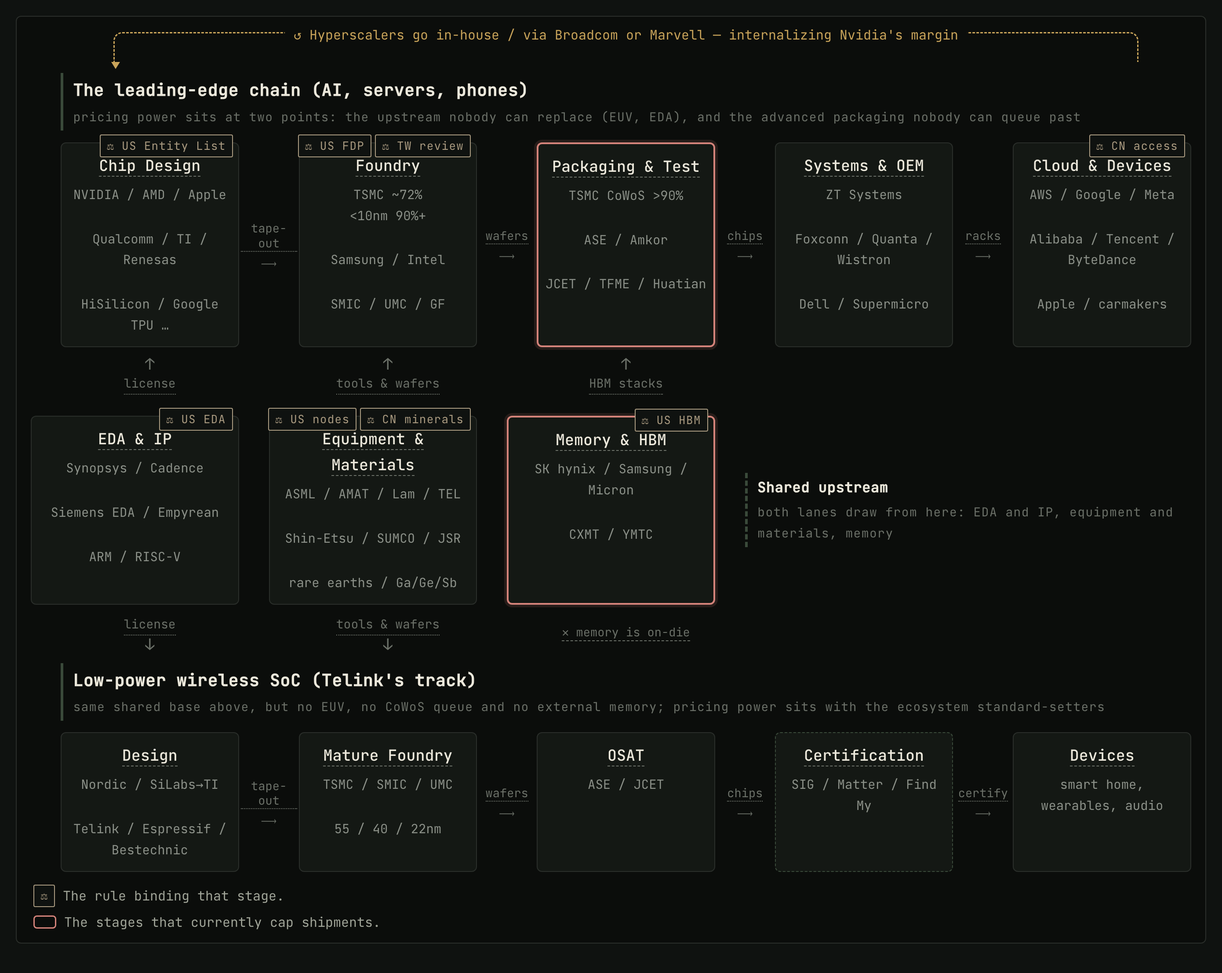
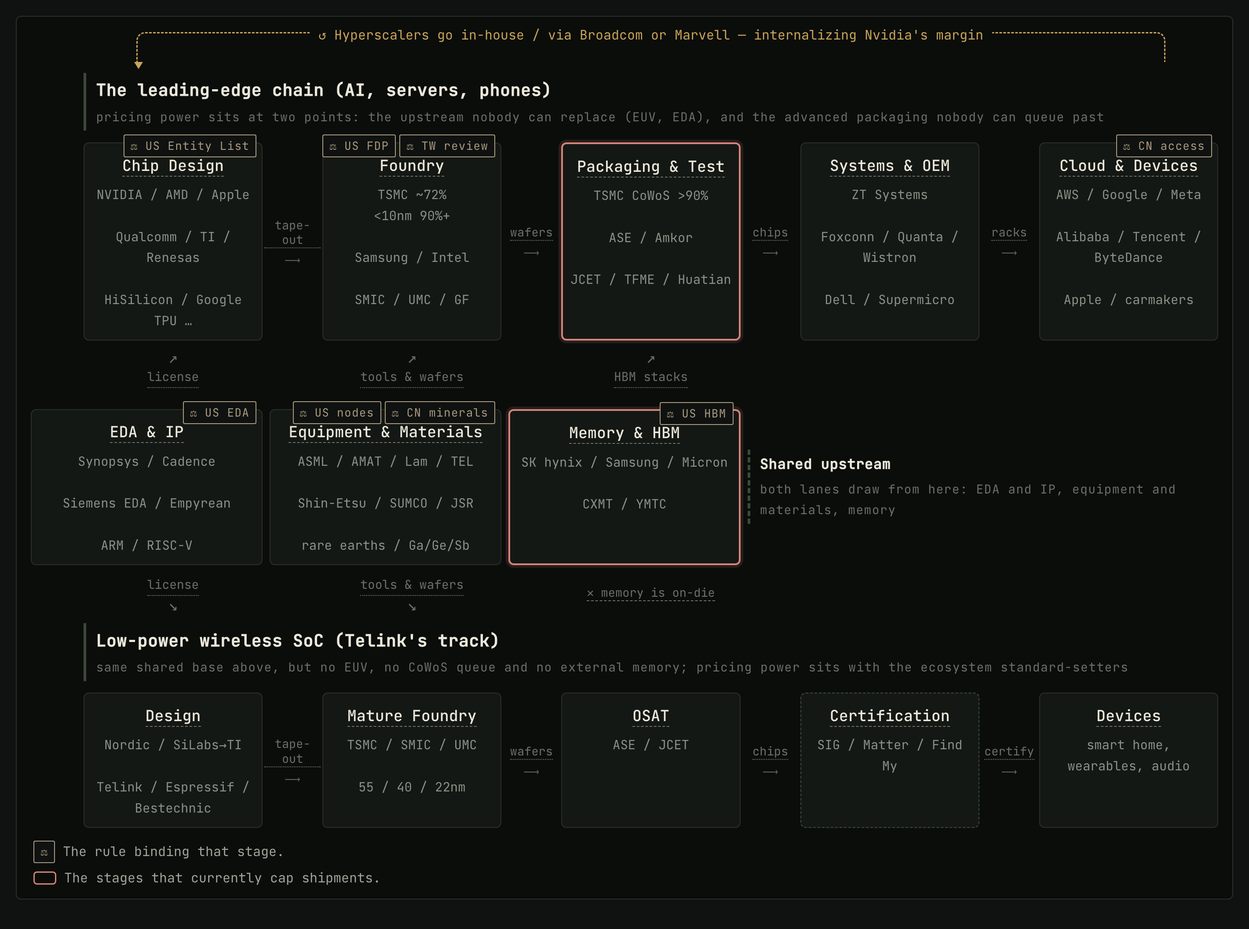
semis: tighter lines in the tiles, a wider offset, diagonal feeds
The line spacing came in with the figure: .fpl makes each player line a
block, and it also carried margin-bottom on top of a 1.65 line-height,
so every list in every tile was spaced twice. The margin goes.

The shared band moves from 34px to 60px left of the rows it feeds, and
the connectors between them become ↗ and ↘ — the band sits to the left,
so the feed into either lane is diagonal, and drawing it vertical said
otherwise.

The ✕ note loses its first sentence in both languages. The mark says the
memory stage is absent and the note explains why; "并非遗漏" / "the
missing memory stage is deliberate" was the note arguing with a reader
who had not objected yet. It now opens on the substance, and stops
repeating its own label.

diff --git a/quartz/static/semis/value-chain-map.html b/quartz/static/semis/value-chain-map.html
@@ -251,7 +251,7 @@ h1.article-title{font-size:30px}
   .fig{width:min(1320px, calc(100vw - 48px));
     margin-left:calc((100% - min(1320px, 100vw - 48px)) / 2)}
 .fig{overflow:visible}}
-.fgrid{display:grid;min-width:1060px;padding-left:34px;
+.fgrid{display:grid;min-width:1060px;padding-left:60px;
   grid-template-columns:1fr 68px 1fr 68px 1fr 68px 1fr 68px 1fr;
   gap:10px 0;align-items:stretch}
 .flane{font-size:14px;color:var(--color-text-faint);letter-spacing:.05em;
@@ -364,7 +364,7 @@ h1.article-title{font-size:30px}
 .fig .sr,.fig .ft,.fig .fsub,.fig .fcon,.chip-n{word-break:keep-all}
 
 /* ── from the redesigned figure: the upstream band feeding up ── */
-.fbox .fpl{display:block;margin-bottom:.16rem}
+.fbox .fpl{display:block}
 .fvert.up{padding-bottom:14px}
 .fnote{display:flex;align-items:center;justify-content:center;text-align:center;
   font-size:13.5px;line-height:1.3;color:var(--color-text-faint);padding:2px;min-height:40px}
@@ -372,8 +372,8 @@ h1.article-title{font-size:30px}
 
 /* the shared band is a layer feeding the chain, not a step in it: offset it so
    its cells deliberately fail to line up with the rows above and below */
-.fbox.mid{margin-left:-34px}
-.flane.bandlane{border-left-style:dashed;align-self:center;margin-left:-34px}
+.fbox.mid{margin-left:-60px}
+.flane.bandlane{border-left-style:dashed;align-self:center;margin-left:-60px}
 .flane.bandlane .ln{font-size:16px}
 </style></head><body><article>
 <h1 class="article-title">半导体产业链全图 — Semiconductor Value Chain: The Full Map</h1>
@@ -396,15 +396,15 @@ h1.article-title{font-size:30px}
 <div class="fbox" style="grid-row:3;grid-column:7"><span class="ft"><span class="tg-tip " tabindex="0"><span class="tg-lang zh">系统与整机</span><span class="tg-lang en">Systems & OEM</span><span class="tg-tip-box"><span class="tg-lang zh"><b>系统与整机</b>。把芯片装成服务器和整机架。AI 时代「能交付一整套能跑的系统」本身就是定价权——AMD 花 49 亿美元买 ZT Systems，买的就是这件事。</span><span class="tg-lang en"><b>Systems & racks.</b> In the AI era, the ability to deliver a complete working system is itself pricing power — that is what AMD's $4.9bn for ZT Systems bought.</span></span></span></span><span class="fp"><span class="fpl"><span class="sr sr-us">ZT Systems</span></span><br><span class="fpl"><span class="sr sr-tw"><span class="tg-lang zh">鸿海</span><span class="tg-lang en">Foxconn</span></span> / <span class="sr sr-tw"><span class="tg-lang zh">广达</span><span class="tg-lang en">Quanta</span></span> / <span class="sr sr-tw"><span class="tg-lang zh">纬创</span><span class="tg-lang en">Wistron</span></span></span><br><span class="fpl"><span class="sr sr-us">Dell</span> / <span class="sr sr-us">Supermicro</span></span></span></div>
 <div class="fcon" style="grid-row:3;grid-column:8"><span class="tg-tip " tabindex="0"><span class="tg-lang zh">整机架</span><span class="tg-lang en">racks</span><span class="tg-tip-box"><span class="tg-lang zh">AI 的交付单位已经从「一张卡」变成「一个整机架」——定价权也跟着从单颗芯片挪到了整机交付能力。</span><span class="tg-lang en">The AI unit of delivery has shifted from a card to a full rack, and pricing power moved with it, from the chip to the ability to deliver the whole system.</span></span></span><span class="ar">⟶</span></div>
 <div class="fbox" style="grid-row:3;grid-column:9"><span class="ftag"><span class="fpill tg-tip" tabindex="0">⚖ <span class="tg-lang zh">中国准入</span><span class="tg-lang en">CN access</span><span class="tg-tip-box"><span class="tg-lang zh"><b>中国的杠杆是「让不让本国公司买」。</b>2025 年 9 月网信办禁止主要科技公司采购英伟达 AI 芯片；2026 年 8 月字节和腾讯各获约 1 万颗 H200，约为获批量的 13%，其余需发改委逐案批准，且北京在把部署往香港引导。</span><span class="tg-lang en"><b>China's lever is whether its own firms may buy.</b> In September 2025 the CAC barred major tech firms from Nvidia AI chips; in August 2026 ByteDance and Tencent each received ~10,000 H200s, about 13% of the authorised volume, with the rest pending case-by-case NDRC approval.</span></span></span></span><span class="ft"><span class="tg-tip tipR " tabindex="0"><span class="tg-lang zh">云与终端</span><span class="tg-lang en">Cloud & Devices</span><span class="tg-tip-box"><span class="tg-lang zh"><b>云与终端</b>。最终买单的人。本轮增长由少数超大规模厂商的资本开支驱动，而不是手机/PC 的单位出货——周期风险的性质因此完全变了。</span><span class="tg-lang en"><b>Cloud & end buyers.</b> This cycle is driven by a few hyperscalers' capex, not phone/PC units — which changes the very nature of cyclical risk.</span></span></span></span><span class="fp"><span class="fpl"><span class="sr sr-us">AWS</span> / <span class="sr sr-us">Google</span> / <span class="sr sr-us">Meta</span></span><br><span class="fpl"><span class="sr sr-cn"><span class="tg-lang zh">阿里</span><span class="tg-lang en">Alibaba</span></span> / <span class="sr sr-cn"><span class="tg-lang zh">腾讯</span><span class="tg-lang en">Tencent</span></span> / <span class="sr sr-cn"><span class="tg-lang zh">字节</span><span class="tg-lang en">ByteDance</span></span></span><br><span class="fpl"><span class="sr sr-us">Apple</span> / <span class="sr sr-gl"><span class="tg-lang zh">车厂</span><span class="tg-lang en">carmakers</span></span></span></span></div>
-<div class="fvert up midv" style="grid-row:4;grid-column:1"><span class="ar">↑</span><span class="tg-tip " tabindex="0"><span class="tg-lang zh">授权</span><span class="tg-lang en">license</span><span class="tg-tip-box"><span class="tg-lang zh">EDA 工具按席位收费；IP 按「授权费 + 每颗版税」收。ARM 的商业模式就在这一条箭头上。</span><span class="tg-lang en">EDA tools are sold per seat; IP as licence fee plus per-chip royalty. ARM's entire business model lives on this one arrow.</span></span></span></div>
-<div class="fvert up midv" style="grid-row:4;grid-column:3"><span class="ar">↑</span><span class="tg-tip " tabindex="0"><span class="tg-lang zh">设备与硅片</span><span class="tg-lang en">tools & wafers</span><span class="tg-tip-box"><span class="tg-lang zh">光刻机、刻蚀机、硅片、光刻胶从这里进厂。断供这一条竖线，工厂两年后就造不了下一代。</span><span class="tg-lang en">Scanners, etchers, wafers and resists enter the fab here. Cut this vertical and in two years the fab cannot build the next node.</span></span></span></div>
-<div class="fvert up midv" style="grid-row:4;grid-column:5"><span class="ar">↑</span><span class="tg-tip " tabindex="0"><span class="tg-lang zh">HBM 堆栈</span><span class="tg-lang en">HBM stacks</span><span class="tg-tip-box"><span class="tg-lang zh">HBM 是在<b>封装环节</b>才和逻辑裸片合体的——这正是 CoWoS 成为整条链瓶颈的原因。</span><span class="tg-lang en">HBM only meets the logic die <b>at packaging</b> — which is exactly why CoWoS is the chain's bottleneck.</span></span></span></div>
+<div class="fvert up midv" style="grid-row:4;grid-column:1"><span class="ar">↗</span><span class="tg-tip " tabindex="0"><span class="tg-lang zh">授权</span><span class="tg-lang en">license</span><span class="tg-tip-box"><span class="tg-lang zh">EDA 工具按席位收费；IP 按「授权费 + 每颗版税」收。ARM 的商业模式就在这一条箭头上。</span><span class="tg-lang en">EDA tools are sold per seat; IP as licence fee plus per-chip royalty. ARM's entire business model lives on this one arrow.</span></span></span></div>
+<div class="fvert up midv" style="grid-row:4;grid-column:3"><span class="ar">↗</span><span class="tg-tip " tabindex="0"><span class="tg-lang zh">设备与硅片</span><span class="tg-lang en">tools & wafers</span><span class="tg-tip-box"><span class="tg-lang zh">光刻机、刻蚀机、硅片、光刻胶从这里进厂。断供这一条竖线，工厂两年后就造不了下一代。</span><span class="tg-lang en">Scanners, etchers, wafers and resists enter the fab here. Cut this vertical and in two years the fab cannot build the next node.</span></span></span></div>
+<div class="fvert up midv" style="grid-row:4;grid-column:5"><span class="ar">↗</span><span class="tg-tip " tabindex="0"><span class="tg-lang zh">HBM 堆栈</span><span class="tg-lang en">HBM stacks</span><span class="tg-tip-box"><span class="tg-lang zh">HBM 是在<b>封装环节</b>才和逻辑裸片合体的——这正是 CoWoS 成为整条链瓶颈的原因。</span><span class="tg-lang en">HBM only meets the logic die <b>at packaging</b> — which is exactly why CoWoS is the chain's bottleneck.</span></span></span></div>
 <div class="flane bandlane" style="grid-row:5;grid-column:7/-1"><span class="tg-lang zh"><span class="ln">共用上游</span>两条线都从这里取：EDA 与 IP、设备与材料、存储</span><span class="tg-lang en"><span class="ln">Shared upstream</span>both lanes draw from here: EDA and IP, equipment and materials, memory</span></div><div class="fbox mid" style="grid-row:5;grid-column:1"><span class="ftag"><span class="fpill tg-tip" tabindex="0">⚖ <span class="tg-lang zh">美国 EDA</span><span class="tg-lang en">US EDA</span><span class="tg-tip-box"><span class="tg-lang zh">同属一套<b>美国出口管制体系（EAR，商务部 BIS 执行）</b>——五件工具各咬一层，这件管的是「软件能不能给你用」。<br><br><b>EAR 对 EDA 工具与 IP 的管制。</b>断供这一层不需要碰任何硬件，因此是 2022 年管制里最先被动用的杠杆。三家 EDA 寡头里两家在美国，第三家（Siemens EDA）技术根也在美国，同样受约束。</span><span class="tg-lang en">One instrument of the <b>same US export-control system (the EAR, run by BIS)</b> — five tools each bite one layer, and this one governs whether you may use the software.<br><br><b>EAR controls on EDA tools and IP.</b> Cutting this layer off touches no hardware, which is why it was the first lever pulled in 2022. Two of the three EDA houses are American; the third (Siemens EDA) has American technology roots and is bound the same way.</span></span></span></span><span class="ft"><span class="tg-tip tipL " tabindex="0"><span class="tg-lang zh">EDA 与 IP</span><span class="tg-lang en">EDA & IP</span><span class="tg-tip-box"><span class="tg-lang zh">整个栈的最底层：三家 EDA 寡头（Synopsys、Cadence、Siemens EDA）+ IP 授权（ARM 只授权不卖芯片）。断供这一层不需要碰任何硬件——2022 年管制里最先被用到的杠杆。</span><span class="tg-lang en">The base of the stack: three EDA oligopolists plus IP licensing (ARM sells no chips). Cutting this layer off touches no hardware — the first lever pulled in the 2022 controls.</span></span></span></span><span class="fp"><span class="fpl"><span class="sr sr-us">Synopsys</span> / <span class="sr sr-us">Cadence</span></span><br><span class="fpl"><span class="sr sr-eu">Siemens EDA</span> / <span class="sr sr-cn"><span class="tg-lang zh">华大九天</span><span class="tg-lang en">Empyrean</span></span></span><br><span class="fpl"><span class="sr sr-eu">ARM</span> / <span class="sr sr-eu">RISC-V</span></span></span></div>
 <div class="fbox mid" style="grid-row:5;grid-column:3"><span class="ftag"><span class="fpill tg-tip" tabindex="0">⚖ <span class="tg-lang zh">美国门槛</span><span class="tg-lang en">US nodes</span><span class="tg-tip-box"><span class="tg-lang zh">同属一套<b>美国出口管制体系（EAR，商务部 BIS 执行）</b>——五件工具各咬一层，这件管的是「设备能不能进厂」。<br><br><b>2022 年 10 月 7 日的制程门槛 + 2024 年 12 月的设备 FDP 规则。</b>向中国境内工厂出口设备，只要该厂生产 16/14nm 以下逻辑、18nm 半节距以下 DRAM 或 128 层以上 NAND，就需要许可证——<b>不看所有权</b>。2024 年 12 月起，连非美国造的设备只要用了美国技术也一并覆盖。</span><span class="tg-lang en">One instrument of the <b>same US export-control system (the EAR, run by BIS)</b> — five tools each bite one layer, and this one governs whether tools may enter the fab.<br><br><b>The node thresholds of 7 October 2022, plus the equipment FDP rule of December 2024.</b> Shipping tools to any China-located fab producing logic below 16/14nm, DRAM below 18nm half-pitch or NAND at 128+ layers requires a licence — <b>regardless of who owns the fab</b>. Since December 2024 even non-US tools built with US technology are covered.</span></span></span><span class="fpill tg-tip" tabindex="0">⚖ <span class="tg-lang zh">中国原料</span><span class="tg-lang en">CN minerals</span><span class="tg-tip-box"><span class="tg-lang zh"><b>商务部 2025 年 10 月 9 日第 61/62 号公告。</b>只要一件外国制造的产品里含有价值占比 0.1% 以上的中国原产稀土，出口就需要中国的许可证——<b>这是中国版的 FDP 规则</b>，同样的域外管辖逻辑，方向相反。另有镓、锗、锑：2024 年 12 月 3 日曾宣布对美「原则上不予许可」，2025 年 11 月改回许可制。釜山会晤后，域外条款暂停至 2026 年 11 月 10 日，镓锗锑暂停至 11 月 27 日。</span><span class="tg-lang en"><b>MOFCOM Notices 61/62 of 9 October 2025.</b> Any foreign-made good containing 0.1% or more Chinese-origin rare earths needs a Chinese export licence — structurally the mirror of the US FDP rule. Suspended after Busan until 10 November 2026; the gallium/germanium/antimony suspension runs to 27 November.</span></span></span></span><span class="ft"><span class="tg-tip " tabindex="0"><span class="tg-lang zh">设备与材料</span><span class="tg-lang en">Equipment & Materials</span><span class="tg-tip-box"><span class="tg-lang zh"><b>设备与材料</b>。造芯片用的机器和原料，集中度比下游任何一层都高：EUV 只有 ASML 一家，其光源来自美国 Cymer、镜头来自德国蔡司。稀土和镓锗锑的精炼环节 80% 以上在中国。</span><span class="tg-lang en"><b>Equipment & materials</b> — more concentrated than anything downstream: one EUV maker (ASML), whose source is American (Cymer) and optics German (Zeiss). China refines 80%+ of rare earths and Ga/Ge/Sb.</span></span></span></span><span class="fp"><span class="fpl"><span class="sr sr-eu">ASML</span> / <span class="sr sr-us">AMAT</span> / <span class="sr sr-us">Lam</span> / <span class="sr sr-jp">TEL</span></span><br><span class="fpl"><span class="sr sr-jp"><span class="tg-lang zh">信越</span><span class="tg-lang en">Shin-Etsu</span></span> / <span class="sr sr-jp">SUMCO</span> / <span class="sr sr-jp">JSR</span></span><br><span class="fpl"><span class="sr sr-cn"><span class="tg-lang zh">稀土及镓锗锑</span><span class="tg-lang en">rare earths / Ga/Ge/Sb</span></span></span></span></div>
 <div class="fbox hot mid" style="grid-row:5;grid-column:5"><span class="ftag"><span class="fpill tg-tip" tabindex="0">⚖ <span class="tg-lang zh">美国 HBM</span><span class="tg-lang en">US HBM</span><span class="tg-tip-box"><span class="tg-lang zh">同属一套<b>美国出口管制体系（EAR，商务部 BIS 执行）</b>——五件工具各咬一层，这件管的是「这类物项本身」。<br><br><b>2024 年 12 月起 HBM 被纳入管制（ECCN 3A090.c）。</b>这是目前限制华为昇腾出货量的真正瓶颈——约束在 HBM，不在逻辑晶圆。注意这一格里三家的机制各不相同：美光本身是美国公司；长江存储 2022 年 12 月被列入实体清单；<b>长鑫至今未被列名，它受约束靠的是上面那条不看所有权的制程门槛</b>。</span><span class="tg-lang en">One instrument of the <b>same US export-control system (the EAR, run by BIS)</b> — five tools each bite one layer, and this one governs the item class itself.<br><br><b>HBM came under control in December 2024 (ECCN 3A090.c).</b> This, not logic wafers, is the binding constraint on Huawei's Ascend shipments. Note the three makers here are caught by different mechanisms: Micron is simply American; YMTC was Entity-Listed in December 2022; <b>CXMT has never been named — it is bound by the ownership-blind node thresholds above</b>.</span></span></span></span><span class="ft"><span class="tg-tip " tabindex="0"><span class="tg-lang zh">存储与 HBM</span><span class="tg-lang en">Memory & HBM</span><span class="tg-tip-box"><span class="tg-lang zh"><b>HBM（High Bandwidth Memory，高带宽内存）</b>。垂直堆叠的 DRAM，紧贴处理器裸片放置。AI 加速器的主要规格竞赛点，全球只有 SK 海力士、三星、美光三家能量产。2024 年 12 月起被列入美国出口管制，<b>这是目前限制华为昇腾出货量的真正瓶颈——不是逻辑晶圆</b>。</span><span class="tg-lang en"><b>HBM (High Bandwidth Memory)</b> — vertically stacked DRAM placed against the processor die. Only SK hynix, Samsung and Micron produce it at volume. Export-controlled by the US since December 2024, and <b>the actual binding constraint on Huawei's Ascend shipments — not logic wafers</b>.</span></span></span></span><span class="fp"><span class="fpl"><span class="sr sr-kr"><span class="tg-lang zh">SK 海力士</span><span class="tg-lang en">SK hynix</span></span> / <span class="sr sr-kr"><span class="tg-lang zh">三星</span><span class="tg-lang en">Samsung</span></span> / <span class="sr sr-us"><span class="tg-lang zh">美光</span><span class="tg-lang en">Micron</span></span></span><br><span class="fpl"><span class="sr sr-cn"><span class="tg-lang zh">长鑫</span><span class="tg-lang en">CXMT</span></span> / <span class="sr sr-cn"><span class="tg-lang zh">长江存储</span><span class="tg-lang en">YMTC</span></span></span></span></div>
-<div class="fvert midv" style="grid-row:6;grid-column:1"><span class="tg-tip " tabindex="0"><span class="tg-lang zh">授权</span><span class="tg-lang en">license</span><span class="tg-tip-box"><span class="tg-lang zh">低功耗 SoC 一样要买 EDA 和 CPU 内核 IP——泰凌微用 RISC-V，Nordic 用 ARM Cortex-M。<b>成熟节点的设计工具照常能买，但一旦被列入实体清单，EDA 是整层切断的。</b>这是这条线上最真实的一处管制暴露。</span><span class="tg-lang en">Low-power SoCs buy EDA and CPU IP just the same — Telink on RISC-V, Nordic on ARM Cortex-M. <b>Mature-node tools remain purchasable, but an Entity List designation cuts the whole layer at once.</b> This is the one real control exposure on this track.</span></span></span><span class="ar">↓</span></div>
-<div class="fvert midv" style="grid-row:6;grid-column:3"><span class="tg-tip " tabindex="0"><span class="tg-lang zh">设备与硅片</span><span class="tg-lang en">tools & wafers</span><span class="tg-tip-box"><span class="tg-lang zh">同一批设备与材料也供成熟产线——只是用 DUV 而非 EUV。<b>被管制的是先进节点的门槛，不是机台本身</b>，所以 55/40nm 这条线基本不受影响；中国的原料管制则对两条线一视同仁。</span><span class="tg-lang en">The same tools and materials feed mature lines too — on DUV rather than EUV. <b>What is controlled is the node threshold, not the tool</b>, so the 55/40nm track is largely untouched; China's materials controls, by contrast, bind both equally.</span></span></span><span class="ar">↓</span></div>
-<div class="fnote midv" style="grid-row:6;grid-column:5"><span class="tg-tip " tabindex="0"><span class="tg-lang zh">✕ 存储做在片内</span><span class="tg-lang en">✕ memory is on-die</span><span class="tg-tip-box"><span class="tg-lang zh"><b>这条线没有存储环节，并非遗漏。</b>低功耗 SoC 的存储做在片内——嵌入式 flash 加 SRAM，与逻辑电路在同一片硅、同一道工艺里完成。这正是华虹「嵌入式非易失存储」特色工艺的价值所在，也是这条线停在 55/40nm 的一个理由：eFlash 在更小的节点上无法实现。少数型号外挂 NOR flash 或 PSRAM，但那是主板上的另一颗器件，不构成产业链上的一层。HBM 则完全无关。</span><span class="tg-lang en"><b>The missing memory stage is deliberate.</b> A low-power SoC carries its memory on-die — embedded flash plus SRAM, built on the same silicon in the same process. That is what makes HuaHong's embedded non-volatile memory option valuable, and one reason the track sits at 55/40nm: eFlash stops working much below that. A few parts add external NOR flash or PSRAM, but that is another component on the board, not a layer of the chain. HBM is irrelevant here.</span></span></span></div>
+<div class="fvert midv" style="grid-row:6;grid-column:1"><span class="tg-tip " tabindex="0"><span class="tg-lang zh">授权</span><span class="tg-lang en">license</span><span class="tg-tip-box"><span class="tg-lang zh">低功耗 SoC 一样要买 EDA 和 CPU 内核 IP——泰凌微用 RISC-V，Nordic 用 ARM Cortex-M。<b>成熟节点的设计工具照常能买，但一旦被列入实体清单，EDA 是整层切断的。</b>这是这条线上最真实的一处管制暴露。</span><span class="tg-lang en">Low-power SoCs buy EDA and CPU IP just the same — Telink on RISC-V, Nordic on ARM Cortex-M. <b>Mature-node tools remain purchasable, but an Entity List designation cuts the whole layer at once.</b> This is the one real control exposure on this track.</span></span></span><span class="ar">↘</span></div>
+<div class="fvert midv" style="grid-row:6;grid-column:3"><span class="tg-tip " tabindex="0"><span class="tg-lang zh">设备与硅片</span><span class="tg-lang en">tools & wafers</span><span class="tg-tip-box"><span class="tg-lang zh">同一批设备与材料也供成熟产线——只是用 DUV 而非 EUV。<b>被管制的是先进节点的门槛，不是机台本身</b>，所以 55/40nm 这条线基本不受影响；中国的原料管制则对两条线一视同仁。</span><span class="tg-lang en">The same tools and materials feed mature lines too — on DUV rather than EUV. <b>What is controlled is the node threshold, not the tool</b>, so the 55/40nm track is largely untouched; China's materials controls, by contrast, bind both equally.</span></span></span><span class="ar">↘</span></div>
+<div class="fnote midv" style="grid-row:6;grid-column:5"><span class="tg-tip " tabindex="0"><span class="tg-lang zh">✕ 存储做在片内</span><span class="tg-lang en">✕ memory is on-die</span><span class="tg-tip-box"><span class="tg-lang zh"><b></b>嵌入式 flash 加 SRAM，与逻辑电路在同一片硅、同一道工艺里完成。这正是华虹「嵌入式非易失存储」特色工艺的价值所在，也是这条线停在 55/40nm 的一个理由：eFlash 在更小的节点上无法实现。少数型号外挂 NOR flash 或 PSRAM，但那是主板上的另一颗器件，不构成产业链上的一层。HBM 则完全无关。</span><span class="tg-lang en">Embedded flash plus SRAM, built on the same silicon in the same process. That is what makes HuaHong's embedded non-volatile memory option valuable, and one reason the track sits at 55/40nm: eFlash stops working much below that. A few parts add external NOR flash or PSRAM, but that is another component on the board, not a layer of the chain. HBM is irrelevant here.</span></span></span></div>
 <div class="flane" style="grid-row:7;grid-column:1/-1"><span class="tg-lang zh"><span class="ln">低功耗无线 SoC（泰凌微所在赛道）</span>共用上面这层底座，但不碰 EUV、不排 CoWoS 的队、不需要外部存储；定价权在生态标准方</span><span class="tg-lang en"><span class="ln">Low-power wireless SoC (Telink's track)</span>same shared base above, but no EUV, no CoWoS queue and no external memory; pricing power sits with the ecosystem standard-setters</span></div>
 <div class="fbox" style="grid-row:8;grid-column:1"><span class="ft"><span class="tg-tip tipL " tabindex="0"><span class="tg-lang zh">设计</span><span class="tg-lang en">Design</span><span class="tg-tip-box"><span class="tg-lang zh"><b>低功耗无线 SoC 设计</b>。竞争维度是功耗、协议覆盖、认证、SDK 易用性和成本——不是算力。单价几毛到几美元，年出货以亿颗计。</span><span class="tg-lang en"><b>Low-power wireless SoC design.</b> The axes are power, protocol coverage, certification, SDK usability and cost — not compute. Cents to dollars per chip, hundreds of millions of units a year.</span></span></span></span><span class="fp"><span class="fpl"><span class="sr sr-eu">Nordic</span> / <span class="sr sr-us">SiLabs→TI</span></span><br><span class="fpl"><span class="sr sr-cn"><span class="tg-lang zh">泰凌微</span><span class="tg-lang en">Telink</span></span> / <span class="sr sr-cn"><span class="tg-lang zh">乐鑫</span><span class="tg-lang en">Espressif</span></span> / <span class="sr sr-cn"><span class="tg-lang zh">恒玄</span><span class="tg-lang en">Bestechnic</span></span></span></span></div>
 <div class="fcon" style="grid-row:8;grid-column:2"><span class="tg-tip " tabindex="0"><span class="tg-lang zh">版图</span><span class="tg-lang en">tape-out</span><span class="tg-tip-box"><span class="tg-lang zh"><b>版图（GDSII）→ tape-out</b>。设计数据定稿、签核、交给代工厂的那个时间点。注意它是事件不是过程。一颗普通 7nm SoC 的首次 tape-out 通常就要 5,000 万美元。</span><span class="tg-lang en"><b>Layout (GDSII) → tape-out</b> — the moment design data is finalized, signed off and handed to the foundry. An event, not a process. A first tape-out of an ordinary 7nm SoC typically runs $50m.</span></span></span><span class="ar">⟶</span></div>
